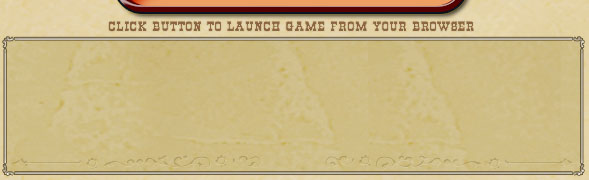
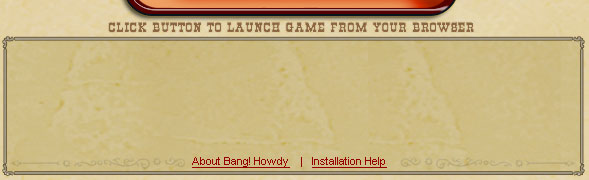
- new graphics + css tweaks - added links to bh.com and threerings.net

diff --git a/pages/affiliates/miniclip/css/landing.css b/pages/affiliates/miniclip/css/landing.css
@@ -38,12 +38,12 @@
 /* BUTTONS */
 #launch a {
   position: absolute;
-  width: 352px;
-  height: 83px;
-  top: 249px;
-  left: 115px;
+  width: 339px;
+  height: 93px;
+  top: 248px;
+  left: 121px;
   text-decoration: none;
-  border: 1px solid;
+  border: none;
 }
 
 #launch a i { 
@@ -51,11 +51,49 @@
 }
 
 a#playnow { 
-  background-image: url("../images/play.png"); 
+  background-image: url("../images/playbtn.jpg"); 
   border: none;
 }
 
 a#playnow:hover { 
-  background-image: url("../images/play_hover.png"); 
+  background-image: url("../images/playbtn_hover.jpg"); 
+  border: none;
+}
+
+/* LiNKS */
+
+#about a {
+  position: absolute;
+  width: 107px;
+  height: 15px;
+  top: 474px;
+  left: 187px;
+  text-decoration: none;
+}
+
+#about a i { 
+  visibility: hidden; 
+}
+
+a#aboutlink:hover { 
+  background-image: url("../images/link_about.jpg"); 
+  border: none;
+}
+
+#installhelp a {
+  position: absolute;
+  width: 81px;
+  height: 15px;
+  top: 474px;
+  left: 307px;
+  text-decoration: none;
+}
+
+#installhelp a i { 
+  visibility: hidden; 
+}
+
+a#installlink:hover { 
+  background-image: url("../images/link_install.jpg"); 
   border: none;
 }

diff --git a/pages/affiliates/miniclip/css/sidebar.css b/pages/affiliates/miniclip/css/sidebar.css
@@ -1,21 +1,3 @@
-#towns a {
-  background-image: url("../images/launch_towns.jpg");
-  position: absolute;
-  top: 165px;
-  left: 510px;
-  width: 200px; 
-  height: 175px;
-}
-
-#screenshots a {
-  background-image: url("../images/launch_screens.jpg");
-  position: absolute;
-  top: 165px;
-  left: 710px;
-  width: 200px; 
-  height: 175px;
-}
-
 #account { 
   position: absolute;
   top: 82px;
@@ -29,22 +11,31 @@
   color: #960000;
 }
 
-#info {
-  position: absolute;
-  top: 466px;
-  left: 10px;
-  width: 540px; 
-  height: 98px;
-  color: #4c2602;
-  text-align: center;
+
+/* LOGOS */
+
+#threerings a {
+  	position: absolute;
+  	top: 10px;
+  	left: 520px;
+	width: 55px;
+	height: 30px;
+  	text-decoration: none;
+  }
+
+#threerings a i { 
+	visibility: hidden; 
 }
 
-#info a {
-  color: #960000;
-  font-size: 9px;
-}
+#banghowdy a {
+  	position: absolute;
+  	top: 10px;
+  	left: 215px;
+	width: 135px;
+	height: 60px;
+  	text-decoration: none;
+  }
 
-#info p {
-  padding: 0px;
-  margin: 10px 0px 0px 0px;
+#banghowdy a i { 
+	visibility: hidden; 
 }

diff --git a/pages/affiliates/miniclip/css/launch.css b/pages/affiliates/miniclip/css/launch.css
@@ -5,8 +5,8 @@
 
 #launchwin {
   position: absolute;
-  top: 98px;
-  left: 40px;
+  top: 100px;
+  left: 45px;
   width: 490px; 
   height: 364px;
 }
@@ -25,3 +25,46 @@
   font-weight: bold;
   font-variant: small-caps;
 }
+
+#justamin {
+  background-image: url("../images/txt_justamin.jpg");
+  background-repeat: no-repeat;
+  position: absolute;
+  top: 75px;
+  left: 115px;
+  width: 353px; 
+  height: 20px;
+}
+
+/* DOWNLOAD OPTION */
+
+#dloption {
+  position: absolute;
+  background-image: url("../images/link_dloption.gif");
+  background-repeat: no-repeat;
+  top: 470px;
+  left: 20px;
+  width: 541px;
+  height: 28px; 
+  text-align: center;
+}
+
+#click a {
+  	position: absolute;
+  	width: 40px;
+    height: 18px;
+    top: 476px;
+    left: 447px;
+  	text-decoration: none;
+}
+
+#click a i { 
+	visibility: hidden; 
+} 
+
+a#herelink:hover { 
+    background: url("../images/link_here.gif") no-repeat top left;
+	width: 40px;
+    height: 18px;
+  	overflow: hidden;
+} 

diff --git a/pages/affiliates/miniclip/css/download.css b/pages/affiliates/miniclip/css/download.css
@@ -24,3 +24,34 @@
 #downwin a {
   color: #960000;
 }
+
+#launchoption {
+  position: absolute;
+  background-image: url("../images/link_launchoption.gif");
+  background-repeat: no-repeat;
+  top: 475px;
+  left: 20px;
+  width: 540px;
+  height: 18px; 
+  text-align: center;
+}
+
+#click a {
+  	position: absolute;
+  	width: 40px;
+    height: 18px;
+    top: 475px;
+    left: 434px;
+  	text-decoration: none;
+}
+
+#click a i { 
+	visibility: hidden; 
+} 
+
+a#herelink:hover { 
+    background: url("../images/link_here.gif") no-repeat top left;
+	width: 40px;
+    height: 18px;
+  	overflow: hidden;
+} 
